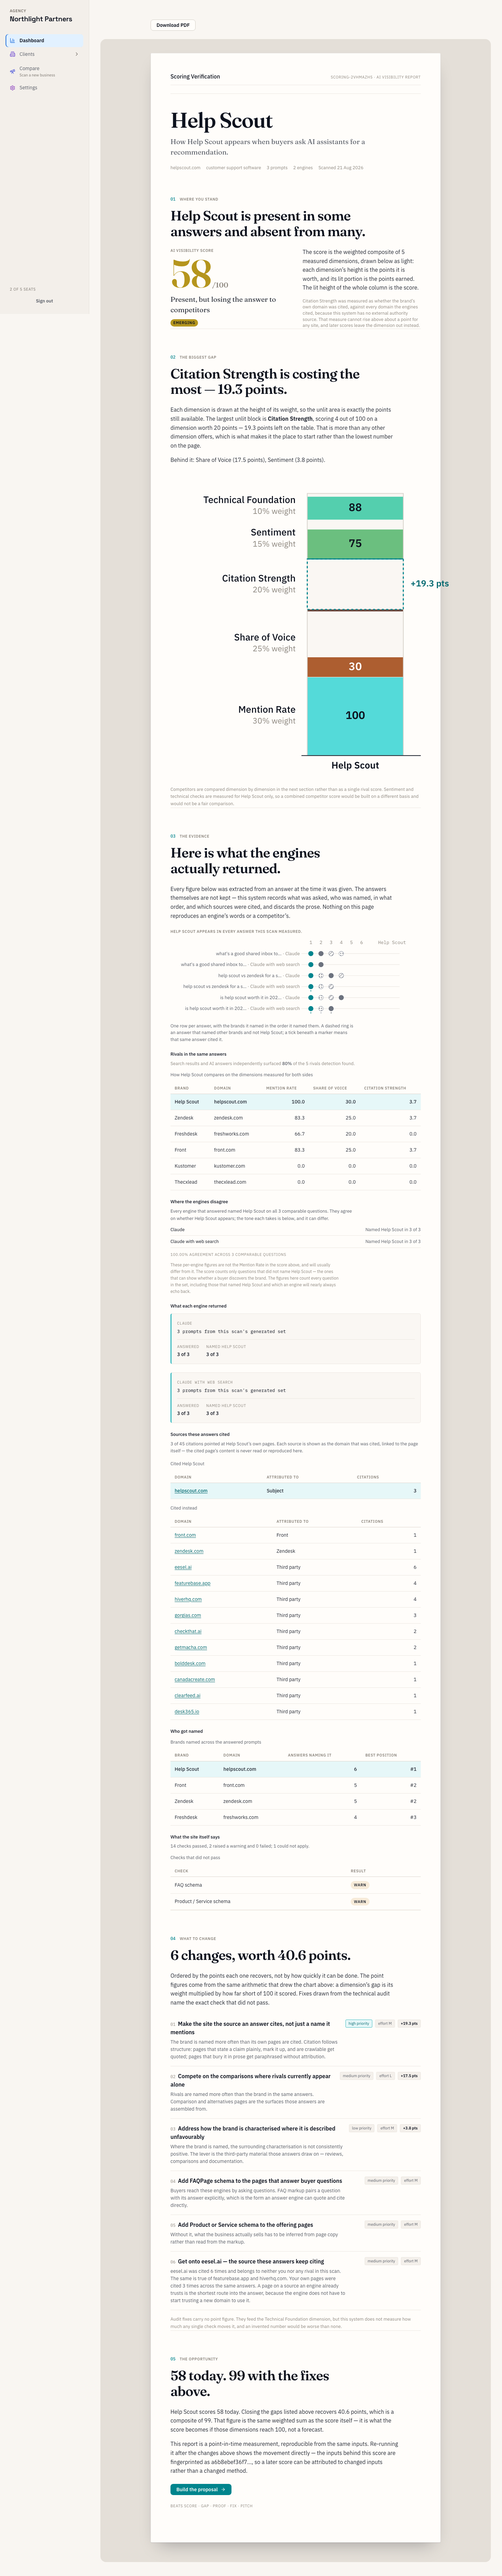
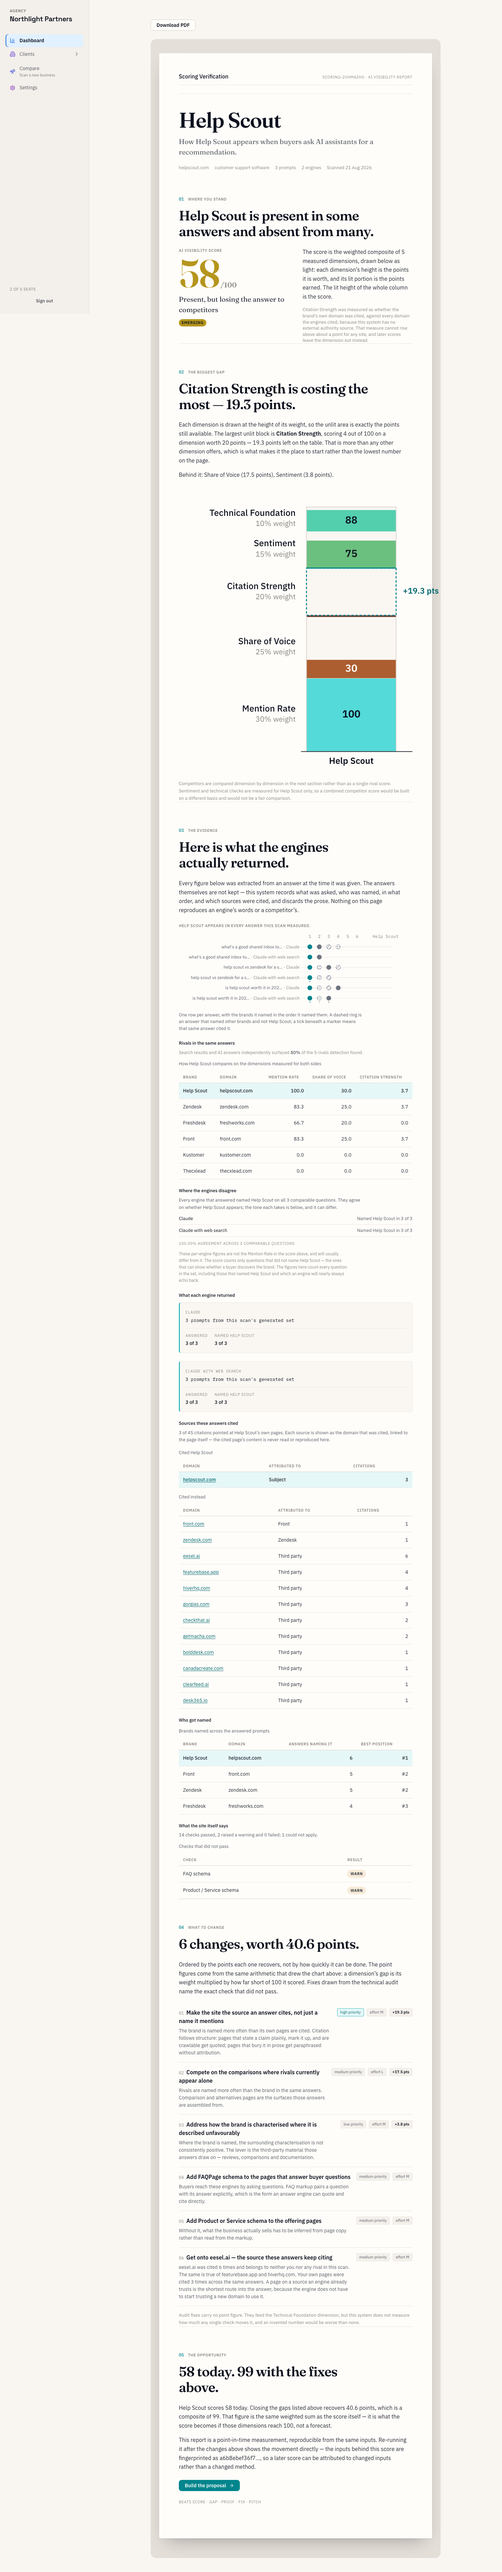
Epic 14.1 (corrected): the report route at the Presenting width, not the Working one
`wide` on the report route pinned the shell to `--avp-app-max`, which the
design-direction width table has never allowed for this route; the desk
then spanned 90rem around a 52rem page. Removed. The shell's default measure
is already report width plus padding, so the desk hugs the page. A source
scan test now fails if the route is widened again without the table being
amended first.

Changed region(s): [[0.1875, 0.0, 1.0, 0.9981]]

diff --git a/apps/web/src/app/scans/reportWidth.test.ts b/apps/web/src/app/scans/reportWidth.test.ts
@@ -1,0 +1,62 @@
+/**
+ * The report route renders at the PRESENTING width — Epic 14.1, corrected.
+ *
+ * design-direction.md's width table (Epic 9.19) governs every route:
+ * `/dashboard`, `/clients` and `/settings` are Working screens at
+ * `--avp-app-max`; `/scans/{id}/report` and `/share/{token}` are Presenting
+ * screens at `--avp-report-width`. Epic 14.1's first cut put `wide` on the
+ * report route to solve a framing problem and, in doing so, quietly moved the
+ * route to the Working width — the desk it added then spanned 90rem around a
+ * 52rem page. This is the assertion that stops that happening again without
+ * someone first amending the table.
+ *
+ * A SOURCE scan rather than a render, on purpose: the route is a client
+ * component that resolves `params` and fetches, and what this guards is a
+ * prop on a JSX element, which is exactly what a grep sees and a render
+ * would have to mock its way to. `reportIsolation.test.ts` guards the same
+ * surfaces the same way.
+ */
+
+import { describe, it, expect } from 'vitest';
+import { readFileSync } from 'node:fs';
+import { fileURLToPath } from 'node:url';
+
+const read = (rel: string): string =>
+  readFileSync(fileURLToPath(new URL(rel, import.meta.url)), 'utf8');
+
+const REPORT_ROUTE = read('./[scanId]/report/page.tsx');
+const SHARE_ROUTE = read('../share/[token]/page.tsx');
+const DASHBOARD_ROUTE = read('../dashboard/page.tsx');
+const SHELL_CSS = read('../../../../../packages/design-system/src/styles/components.css');
+
+/** Every `<WorkspaceShell …>` opening tag in a source, with its props. */
+const shells = (source: string): string[] =>
+  [...source.matchAll(/<WorkspaceShell\b([^>]*)>/g)].map((m) => m[1]!);
+
+describe('the report route keeps the Presenting width', () => {
+  it('renders the shell without `wide`, in every branch', () => {
+    const tags = shells(REPORT_ROUTE);
+    // Loading, error and ready all frame the route; none may widen it.
+    expect(tags.length).toBeGreaterThanOrEqual(3);
+    for (const props of tags) expect(props).not.toMatch(/\bwide\b/);
+  });
+
+  it('is not a vacuous check — a Working route does use `wide`', () => {
+    expect(shells(DASHBOARD_ROUTE).some((props) => /\bwide\b/.test(props))).toBe(true);
+  });
+
+  it('gets its measure from the shell default, which IS report width plus padding', () => {
+    // The default rule is what the route falls back to without `wide`. If
+    // that ever stops being the report measure, this route drifts again.
+    const rule = SHELL_CSS.match(/\.avp-shell__content\s*\{([^}]*)\}/);
+    expect(rule, '.avp-shell__content rule missing').not.toBeNull();
+    expect(rule![1]).toMatch(/max-width:\s*calc\(var\(--avp-report-width\)/);
+    const wide = SHELL_CSS.match(/\.avp-shell__content--wide\s*\{([^}]*)\}/);
+    expect(wide![1]).toMatch(/--avp-app-max/);
+  });
+
+  it('the share route never used the shell at all, so the table holds there by construction', () => {
+    expect(SHARE_ROUTE).not.toContain('WorkspaceShell');
+    expect(SHARE_ROUTE).toContain('max-w-report');
+  });
+});

diff --git a/apps/web/src/app/scans/[scanId]/report/page.tsx b/apps/web/src/app/scans/[scanId]/report/page.tsx
@@ -104,19 +104,29 @@ export default function ReportPageRoute({
 
   return (
     /*
-      WIDE, and the document is placed on a desk — Epic 14.1.
+      The document is placed on a desk — Epic 14.1 — at the PRESENTING width.
 
       The report itself keeps its 52rem paper measure; that is the artefact
       and it is not up for debate. What was wrong on the live dark build was
       everything around it: a fixed-width white column dropped straight onto
-      the workspace ground read as a clipped phone screenshot. The shell now
-      runs to the app width and `.avp-report-frame` gives the page a light
-      neutral desk and a real edge, so it reads as a document sitting on a
-      surface. Route-level framing only — ReportView and the report's tokens
-      are untouched, which ReportView.test.tsx and reportIsolation.test.ts
-      keep asserting.
+      the workspace ground read as a clipped phone screenshot.
+      `.avp-report-frame` gives the page a light neutral desk and a real
+      edge, so it reads as a document sitting on a surface.
+
+      NOT widened. Epic 14.1 first shipped this route on the shell's Working
+      measure (`--avp-app-max`), and design-direction.md's width table has
+      governed this route to `--avp-report-width` since Epic 9.19. The desk
+      made the mistake visible: it spanned 90rem while the page inside it
+      capped at 52rem, and the gap was a dead coloured field either side.
+      On the shell's own default measure — report width plus padding — the
+      desk hugs the page. `reportWidth.test.ts` holds this; widening the
+      route again means amending the table first.
+
+      Route-level framing only — ReportView and the report's tokens are
+      untouched, which ReportView.test.tsx and reportIsolation.test.ts keep
+      asserting.
     */
-    <WorkspaceShell current="dashboard" wide>
+    <WorkspaceShell current="dashboard">
       {/*
         Operator chrome, deliberately ABOVE the report rather than inside it.
         ReportView is the document that gets sent; anything to do with sending

diff --git a/docs/build-log.md b/docs/build-log.md
@@ -14227,3 +14227,42 @@ stylesheet was opened or referenced; the light theme was derived from Epic
 token, no working palette, no hero and no theme attribute
 (`reportIsolation.test.ts`, `ReportView.test.tsx`, `tokens.test.ts`);
 nothing here stores or renders third-party prose.
+
+# Epic 14.1, corrected — the report route back at the Presenting width
+
+**2026-09-09.** Governance line unchanged from Epic 14.1: the authenticated
+report route and nothing else.
+
+## The regression, and the table it broke
+
+Epic 14.1 put `wide` on `WorkspaceShell` for `/scans/{id}/report` to give
+the desk room. That was the wrong lever. `wide` pins the shell's content to
+`--avp-app-max`, the **Working** width, and `design-direction.md`'s width
+table — standing since Epic 9.19 and never amended — governs this route to
+`--avp-report-width`, the **Presenting** one. The desk made the mistake
+visible rather than hiding it: the frame spanned 90rem, the page inside it
+capped at 52rem, and the difference was a dead coloured field either side.
+
+## The fix
+
+`wide` removed. The shell's own default rule is already the document
+measure — report width plus its padding — so the desk sizes itself to the
+page and no new token was needed. `.avp-report-frame`, the desk token and
+the share route's full-viewport treatment stay exactly as 14.1 built them;
+`/share/{token}` never used the shell, so it was never affected.
+
+## The guard
+
+`apps/web/src/app/scans/reportWidth.test.ts` scans the route's source and
+fails if any `<WorkspaceShell>` in it carries `wide`, with a positive control
+on the dashboard route and an assertion that the shell's default measure is
+still the report width. Run against the unfixed route it failed on
+`' current="dashboard" wide'`. Widening this route again now means amending
+the width table first, which is the order the table exists for.
+
+## Verified
+
+Design system 601/601, web 806/806 (four new), both typechecks clean. Both
+report routes re-rendered from the fixture in both themes: the desk hugs the
+page with an even margin. `docs/screenshots/epic-14/after-report-route-framed.png`
+replaced; `docs/screenshots/epic-15/report-route-{light,dark}.png` added.
